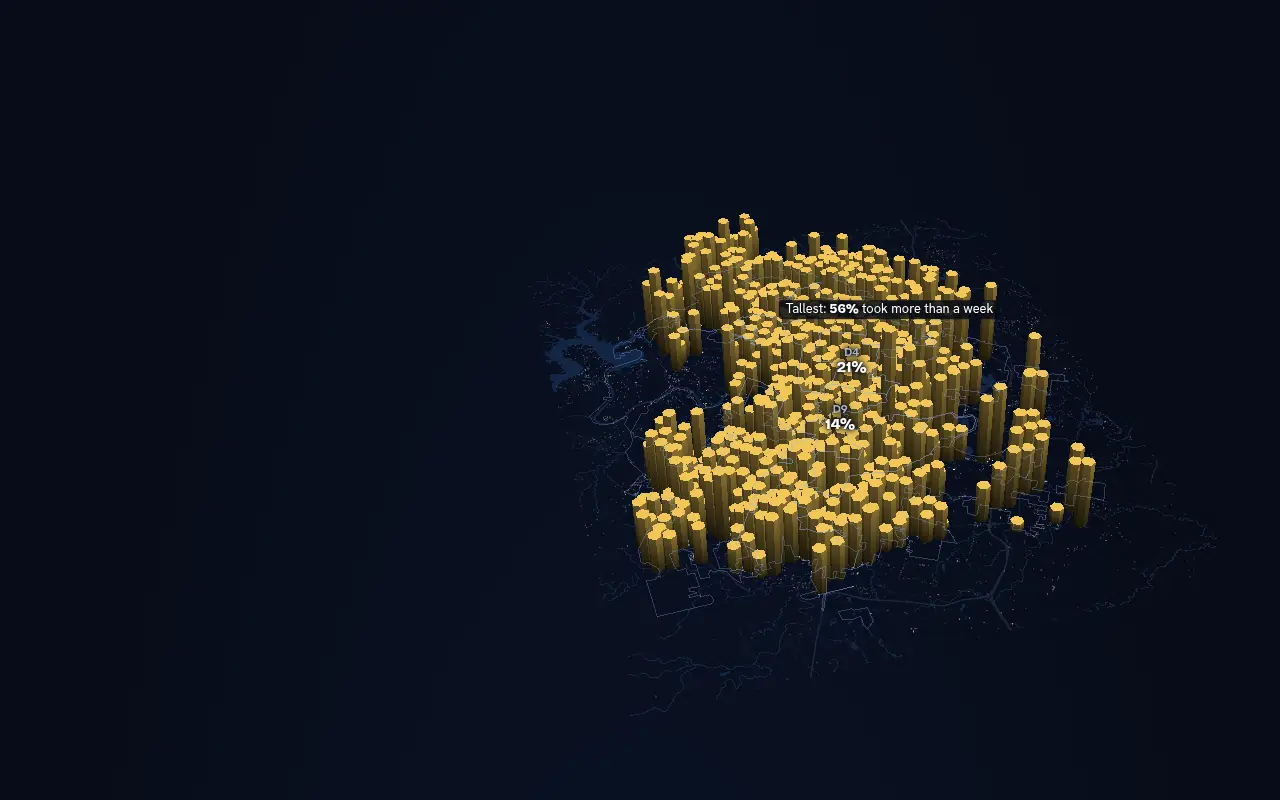
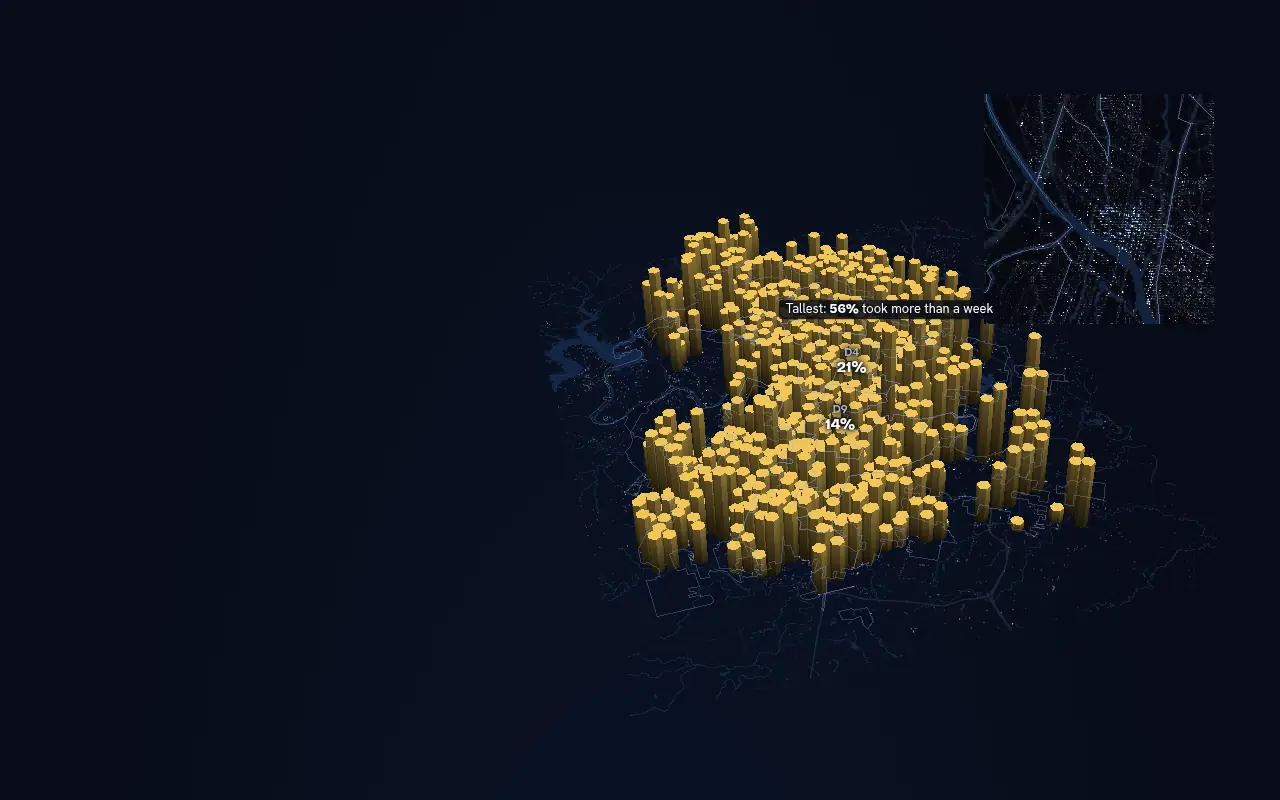
The Wait v2.2: typographic rail, downtown inset, guess-first, phone hero (#115)
* 311 wait v2.2: desktop captions and stats in a left typographic rail

* 311 wait v2.2: downtown inset on the wait-color map

* 311 wait v2.2: ask the guess before the wait-color map

* 311 wait v2.2: phone hero towers own the first screen

* 311 wait v2.2: re-render stills

* 311 wait v2.2: pin a quiet The Wait title on the phone fold

Changed region(s): [[0.7812, 0.125, 0.9375, 0.4062], [0.75, 0.3438, 0.7812, 0.4062], [0.75, 0.125, 0.7812, 0.1562]]

diff --git a/src/css/wait-311.css b/src/css/wait-311.css
@@ -89,7 +89,7 @@ body:has(.w3) { overflow-x: clip; }
 .w3-card .w3-small b { color: #fff; }
 
 /* Hero */
-.w3-hero-step { min-height: 100svh; display: flex; align-items: flex-end; margin-bottom: 30svh; }
+.w3-hero-step { display: block; padding-top: 100svh; margin-bottom: 30svh; }
 .w3-hero { width: 100%; max-width: 40rem; padding: 0 .25rem 2.2rem; }
 .w3-dateline { margin: .7rem 0 0; font-size: .85rem; color: var(--soft); }
 .w3-kicker { margin: 0 0 .2rem; font-size: .75rem; font-weight: 700; letter-spacing: .14em; text-transform: uppercase; color: var(--yel); }
@@ -135,19 +135,43 @@ body:has(.w3) { overflow-x: clip; }
 .w3-method a, .w3-hero-meta a { display: inline-block; line-height: 1.5rem; }
 
 @media (min-width: 900px) {
-  .w3-steps { padding: 0 0 0 max(2rem, calc(50vw - 36rem)); }
-  .w3-card { margin: 0; max-width: 23rem; }
-  .w3-step { margin-bottom: 75vh; }
-  .w3-hero-step { align-items: center; margin-bottom: 25vh; }
-  .w3-hero { max-width: 30rem; padding: 0; }
+  /* Left rail: captions and stats fill the column beside the graphic (safe area starts at 36%). */
+  .w3-steps { padding: 0 0 0 clamp(1.75rem, 2.5vw, 3rem); }
+  .w3-step, .w3-hero-step {
+    width: min(36rem, calc(36vw - clamp(1.75rem, 2.5vw, 3rem) - 1.25rem));
+    margin-bottom: 70vh;
+  }
+  .w3-hero-step { display: flex; align-items: center; min-height: 100svh; padding-top: 0; margin-bottom: 25vh; }
+  .w3-hero { max-width: none; width: 100%; padding: 0; }
   .w3-title { font-size: clamp(5rem, 9vw, 8rem); }
+  .w3-card {
+    margin: 0; max-width: none; width: 100%;
+    background: none; border: 0; border-radius: 0; box-shadow: none;
+    -webkit-backdrop-filter: none; backdrop-filter: none; padding: 0;
+    position: sticky; top: max(2rem, 22svh);
+  }
+  .w3-card p {
+    font-size: 1.32rem; line-height: 1.35;
+    text-shadow: 0 1px 16px rgba(5, 8, 15, .92), 0 0 28px rgba(5, 8, 15, .75);
+  }
+  .w3-card .w3-small { font-size: 1.02rem; }
+  .w3-card p b, .w3-card .w3-small b {
+    font-family: Bricolage, Hanken, sans-serif; font-stretch: 85%;
+    font-size: 1.2em; font-weight: 800; color: #fff;
+  }
+  /* Forms keep a panel so controls stay readable. */
+  .w3-guess, .w3-you .w3-card {
+    background: var(--glass); -webkit-backdrop-filter: blur(10px); backdrop-filter: blur(10px);
+    border: 1px solid rgba(255, 255, 255, .12); border-radius: 12px;
+    padding: 1.1rem 1.2rem; box-shadow: 0 10px 40px rgba(0, 0, 0, .45);
+  }
+  .w3-guess p, .w3-you .w3-card p { text-shadow: none; }
   .w3-hud { left: auto; right: 2rem; top: 1.5rem; text-align: right; }
   .w3-hud-row { justify-content: flex-end; }
   .w3-hud-count { font-size: 2.2rem; }
   .w3-legend { left: auto; right: 2rem; top: auto; bottom: 1.5rem; translate: none; width: 22rem; }
   .w3-lbl { font-size: .8rem; }
   .w3-lbl.is-row { font-size: .82rem; }
-  .w3-card p { font-size: 1.2rem; }
 }
 @media (prefers-reduced-motion: reduce) {
   .w3 *, .w3 *::before, .w3 *::after { transition-duration: 0s !important; animation: none !important; }
@@ -205,6 +229,26 @@ body:has(.w3) { overflow-x: clip; }
 .w3-lbl.is-mark-out.is-left { translate: -100% -50%; }
 .w3-lbl.is-mark-out span { color: var(--soft); }
 @media (max-width: 599px) { .w3.is-ready .w3-stage[data-scene="you"] .w3-credit { opacity: 0; } }
+@media (max-width: 899px) { .w3.is-ready .w3-stage[data-scene="hero"] .w3-credit { opacity: 0; } }
+/* Phone fold: a quiet name and scroll cue, so the first screen still says what this is. */
+.w3-foldtitle { display: none; }
+@media (max-width: 899px) {
+  .w3-foldtitle {
+    display: block; position: absolute; left: 0; right: 0; bottom: .65rem;
+    margin: 0; text-align: center; pointer-events: none; z-index: 2;
+    font: 800 1.1rem/1 Bricolage, Hanken, sans-serif; font-stretch: 80%;
+    color: #fff; text-shadow: 0 1px 14px rgba(5, 8, 15, .95), 0 0 22px rgba(5, 8, 15, .7);
+    opacity: 0; transition: opacity .35s ease;
+  }
+  .w3.is-foldtitle-ready .w3-stage[data-scene="hero"] .w3-foldtitle { opacity: 1; }
+  .w3.is-foldtitle-off .w3-foldtitle { opacity: 0; }
+  .w3-foldtitle .w3-cue {
+    display: block; margin: .4rem 0 0; font: 700 .75rem/1 Hanken, sans-serif;
+    letter-spacing: .2em; text-transform: uppercase; color: var(--soft);
+    text-shadow: 0 1px 10px rgba(5, 8, 15, .9);
+  }
+  .w3-foldtitle .w3-cue::after { margin: .3rem auto 0; }
+}
 .w3-replay .w3-re, .w3-replay .w3-p { display: none; }
 .w3.has-played .w3-replay .w3-re, .w3.has-played .w3-replay .w3-p { display: inline; }
 .w3.has-played .w3-replay .w3-P { display: none; }
@@ -212,3 +256,10 @@ body:has(.w3) { overflow-x: clip; }
 .w3-sw.is-open { background: #fff; }
 .w3-sw.is-dup { background: #7f8aa3; }
 .w3-lbl.is-axis2 { translate: -50% 0; font-size: .7rem; color: var(--soft); }
+
+.w3-inset { position: absolute; box-sizing: border-box; border: 1.5px solid rgba(255, 255, 255, .6);
+  border-radius: 3px; pointer-events: none; overflow: hidden;
+  box-shadow: 0 0 0 1px rgba(5, 8, 15, .7), 0 8px 28px rgba(0, 0, 0, .45); }
+.w3-inset p { position: absolute; left: 0; top: 0; margin: 0; padding: 2px 7px;
+  font-size: .68rem; letter-spacing: .08em; text-transform: uppercase; color: #fff;
+  background: rgba(6, 10, 22, .86); }

diff --git a/src/js/wait-311-view.js b/src/js/wait-311-view.js
@@ -2,6 +2,7 @@
 // the part of the screen the captions leave free, and the camera for each scene.
 import { perspective, lookAt, apply } from "./wait-311-gl.js";
 import { BINS } from "./wait-311-prep.js";
+import { worldOf } from "./wait-311-labels.js";
 
 const FOV = (32 * Math.PI) / 180;
 const CAM_OF = { hero: "hero", map: "map", color: "map", terrain: "terrain", hist: "pile",
@@ -37,15 +38,23 @@ function cameras(DATA, geo) {
   // The hero looks across the city from the south, so the columns read as a skyline.
   const hero = { t: [0, 0.02, 0.06], tilt: 0.95, rot: -0.32,
     w: DATA.mapW * 0.98, h: DATA.mapH * 1.0 };
-  return { map, terrain, hero,
+  // ~5 km square over downtown, for the wait-color inset.
+  const d = worldOf(DATA, 30.2700, -97.7431), span = DATA.hexR * 5;
+  const downtown = { t: [d[0], d[1], 0], tilt: 0, rot: 0, w: span, h: span };
+  return { map, terrain, hero, downtown,
     pile: { t: [0, 0, 0], tilt: 0, rot: 0, w: geo.boxW, h: geo.boxH },
     ring: { t: [0, 0, 0], tilt: 0, rot: 0, w: 2.5, h: 2.5 },
     vehicles: { ...terrain, tilt: 0.85, rot: 0.25 }, you: { ...terrain, tilt: 0.6, rot: -0.15 } };
 }
 
+const lerpBox = (a, b, k) => a && b ? {
+  x: a.x + (b.x - a.x) * k, y: a.y + (b.y - a.y) * k,
+  w: a.w + (b.w - a.w) * k, h: a.h + (b.h - a.h) * k,
+} : (a || b);
+
 export const lerpCam = (a, b, k) => ({ t: a.t.map((v, i) => v + (b.t[i] - v) * k),
   tilt: a.tilt + (b.tilt - a.tilt) * k, rot: a.rot + (b.rot - a.rot) * k,
-  w: a.w + (b.w - a.w) * k, h: a.h + (b.h - a.h) * k });
+  w: a.w + (b.w - a.w) * k, h: a.h + (b.h - a.h) * k, safe: lerpBox(a.safe, b.safe, k) });
 
 export function createView(canvas, wide, DATA, prep) {
   const v = { wide, W: 1, H: 1, dpr: 1, safe: { x: 0, y: 0, w: 1, h: 1 }, geo: {}, cams: {} };
@@ -58,14 +67,26 @@ export function createView(canvas, wide, DATA, prep) {
       : { x: W * 0.05, y: H * 0.085, w: W * 0.9, h: H * 0.46 };
     v.geo = geometry(v.safe.w / v.safe.h, prep, DATA.rowKeys.length);
     v.cams = cameras(DATA, v.geo);
-    // On a phone the hero sits a little farther back, so the headline stays below it.
-    const h = v.cams.hero;
-    if (!wide.matches) v.cams.hero = { ...h, w: h.w * 1.15, h: h.h * 1.15 };
+    for (const cam of Object.values(v.cams)) cam.safe = { ...v.safe };
+    // Phone hero fills the first visible screen (below the masthead, above the dek).
+    if (!wide.matches) {
+      const root = canvas.closest(".w3");
+      const fold = root.getBoundingClientRect().top + scrollY;
+      const vis = Math.max(H * 0.55, H - fold), y = H * 0.10;
+      const h = Math.max(H * 0.45, vis - y - H * 0.03);
+      v.cams.hero.w *= 0.7; v.cams.hero.h *= 0.7;
+      v.cams.hero.safe = { x: W * 0.04, y, w: W * 0.92, h };
+    }
+  };
+  v.insetBox = () => {
+    const s = v.safe, side = Math.min(s.w, s.h) * (v.wide.matches ? 0.36 : 0.42);
+    const pad = v.wide.matches ? 14 : 8;
+    return { x: s.x + s.w - side - pad, y: s.y + pad, w: side, h: side };
   };
   v.sceneCam = (scene) => v.cams[CAM_OF[scene] || "map"];
   /** View and projection for camera c, centered on the safe area by a lens shift. */
   v.matrices = (c, orbit) => {
-    const { W, H, safe } = v, aspect = W / H, tan = Math.tan(FOV / 2);
+    const { W, H } = v, safe = c.safe || v.safe, aspect = W / H, tan = Math.tan(FOV / 2);
     const fitH = c.h / ((safe.h / H) * 2 * tan), fitW = c.w / ((safe.w / W) * aspect * 2 * tan);
     const dist = Math.max(fitH, fitW) * 1.04;
     const ncx = ((safe.x + safe.w / 2) / W) * 2 - 1, ncy = 1 - ((safe.y + safe.h / 2) / H) * 2;

diff --git a/src/js/wait-311.js b/src/js/wait-311.js
@@ -17,6 +17,26 @@ const INTENT = ["scroll", "wheel", "pointerdown", "pointermove", "touchstart", "
 const root = typeof document === "undefined" ? null : document.getElementById("w3");
 if (root) start(root);
 
+/** On a phone, the hero copy starts just below the first screen. */
+function padHero(root, wide) {
+  const step = root.querySelector(".w3-hero-step");
+  if (!step) return;
+  if (wide.matches) { step.style.paddingTop = ""; return; }
+  const top = step.getBoundingClientRect().top + scrollY;
+  step.style.paddingTop = `${Math.max(0, innerHeight - top)}px`;
+}
+
+/** Sit the quiet phone fold title on the first-screen edge, not the stage bottom. */
+function placeFoldtitle(root, wide) {
+  const el = root.querySelector(".w3-foldtitle");
+  const stage = root.querySelector(".w3-stage");
+  if (!el || !stage) return;
+  if (wide.matches) { el.style.bottom = ""; root.classList.remove("is-foldtitle-ready"); return; }
+  const below = Math.max(0, stage.getBoundingClientRect().bottom - innerHeight);
+  el.style.bottom = `${below + 10}px`;
+  root.classList.add("is-foldtitle-ready");
+}
+
 /** Track which caption is active and tell the graphic. */
 function watchSteps(root, stage, wide) {
   const steps = [...root.querySelectorAll(".w3-step")];
@@ -27,6 +47,8 @@ function watchSteps(root, stage, wide) {
     steps.forEach((s, i) => { if (s.getBoundingClientRect().top < line) index = i; });
     const heroTop = steps[0].firstElementChild.getBoundingClientRect().top;
     root.classList.toggle("is-hud-off", !wide.matches && heroTop < innerHeight * 0.3);
+    root.classList.toggle("is-foldtitle-off", !wide.matches && heroTop < innerHeight - 12);
+    placeFoldtitle(root, wide);
     if (index === current) return;
     steps[current]?.classList.remove("is-active");
     current = index;
@@ -44,7 +66,9 @@ function watchSteps(root, stage, wide) {
   const watch = { rootMargin: "0px 0px -18% 0px", threshold: [0, 1] };
   for (const el of [root, ...steps]) new IntersectionObserver(queue, watch).observe(el);
   addEventListener("scroll", queue, { passive: true });
-  addEventListener("resize", queue);
+  addEventListener("resize", () => { padHero(root, wide); placeFoldtitle(root, wide); queue(); });
+  padHero(root, wide);
+  placeFoldtitle(root, wide);
   pickStep();
 }
 

diff --git a/src/js/wait-311-scene.js b/src/js/wait-311-scene.js
@@ -118,6 +118,7 @@ export function run(ctx) {
   const view = createView(canvas, ctx.wide, DATA, prep);
   const renderer = createRenderer(gl, prep, DATA, request);
   const labels = createLabels(ctx.labels, DATA, prep);
+  const inset = ctx.stage.querySelector(".w3-inset");
   binHexes(prep, DATA.hexR, prep.groupIndex.vehicle).then((bins) => {
     renderer.setHex(hexPass(gl, hexMesh(bins, DATA.hexR)));
     const top = tallest(bins, DATA.hexR);
@@ -136,13 +137,36 @@ export function run(ctx) {
     const m = view.matrices(cam, st.orbit);
     const lines = (st.scene === "hero" ? 0 : 1)
       * blend((l) => (MAP_LIKE.includes(l) ? 1 : 0), st.from, st.to, k);
+    const base = (BASE_A[st.prevScene] ?? 0) * (1 - k) + (BASE_A[st.scene] ?? 0) * k;
     renderer.draw({ m, points: pointValues(st, k, cam, m, view, prep, hdrOn),
-      base: (BASE_A[st.prevScene] ?? 0) * (1 - k) + (BASE_A[st.scene] ?? 0) * k, lines,
+      base, lines,
       hex: { a: HEX_MODE[st.prevScene] ?? 0, b: HEX_MODE[st.scene] ?? 0, mix: k, clock: st.clock,
         h: HEX_H } });
     labels.place(view.toScreen(m), view.geo,
       { scene: st.scene, focus: st.focus, pin, settled: k > 0.85, narrow: view.W < 600,
         clock: st.clock });
+    drawInset(k, base);
+  }
+  const placeInset = (box, show) => {
+    if (!inset) return;
+    inset.hidden = !show;
+    if (!show) return;
+    inset.style.left = `${box.x}px`; inset.style.top = `${box.y}px`;
+    inset.style.width = `${box.w}px`; inset.style.height = `${box.h}px`;
+  };
+  /** Downtown zoom on the wait-color map, so the core is not one overplotted mass. */
+  function drawInset(k, base) {
+    const color = st.scene === "color";
+    const box = view.insetBox();
+    placeInset(box, color && k > 0.55);
+    if ((!color && st.prevScene !== "color") || k <= 0.2) return;
+    const dpr = view.dpr, saved = view.safe, cam = view.cams.downtown;
+    view.safe = box;
+    const m = view.matrices(cam, 0);
+    view.safe = saved;
+    renderer.drawInset({ m, points: pointValues(st, k, cam, m, view, prep, false),
+      base, lines: 1 }, { x: Math.round(box.x * dpr), w: Math.round(box.w * dpr),
+      y: Math.round(canvas.height - (box.y + box.h) * dpr), h: Math.round(box.h * dpr) });
   }
   function frame(now) {
     raf = 0;

diff --git a/src/js/wait-311-gl.js b/src/js/wait-311-gl.js
@@ -211,9 +211,22 @@ export function createRenderer(gl, prep, DATA, onAsset) {
     if (hex && f.hex) hex({ m: f.m, ...f.hex });
     lines(f.m, f.lines);
   };
+  /** Second pass: a boxed zoom, in device pixels, y up from the bottom of the canvas. */
+  const drawInset = (f, r) => {
+    gl.enable(gl.SCISSOR_TEST);
+    gl.viewport(r.x, r.y, r.w, r.h);
+    gl.scissor(r.x, r.y, r.w, r.h);
+    gl.clearColor(0.02, 0.03, 0.06, 1);
+    gl.clear(gl.COLOR_BUFFER_BIT | gl.DEPTH_BUFFER_BIT);
+    base(f.m, f.base);
+    points(f.points);
+    lines(f.m, f.lines);
+    gl.disable(gl.SCISSOR_TEST);
+    gl.viewport(0, 0, gl.canvas.width, gl.canvas.height);
+  };
   const resize = (w, h) => { gl.viewport(0, 0, w, h); return hdr.resize(w, h); };
   const setHex = (pass) => { hex = pass; };
-  return { draw, resize, setHex };
+  return { draw, resize, setHex, drawInset };
 }
 
 /* ---------- a small matrix kit ---------- */

diff --git a/logs/2026-11-25.md b/logs/2026-11-25.md
@@ -2,3 +2,5 @@
 ## dash-overnight
 
 - `/austin-311-wait/` v2.1: 3D hex columns (about 1.05 km across, built in the browser from the same 273,134 requests) replace the light streaks. The hero towers count requests as the year plays; the busiest is labeled. Slow-request and abandoned-vehicle scenes use the columns, and the story ends on the skyline. The poster rises in before the first input. Fixes from an independent review: the median now reads "25 hours", the guess verdict uses the guess as shown, phones label only the extreme districts, the rings are blue with no wait legend, and the rows show their counts. The data file is unchanged. QA notes: `/workspace/sites/reviews/2026-11-25-311-visual-v2/`.
+- `/austin-311-wait/` v2.2 step 1: desktop captions sit in a typographic left rail beside the graphic (no floating card, except the guess and Your wait forms). Stats in the captions are set as callouts.
+- `/austin-311-wait/` v2.2: downtown inset on the wait-color map; the guess is asked on the uncolored location map before the colors appear; on a phone the towers own the first screen and the dek starts just below the fold. Stills re-rendered.
